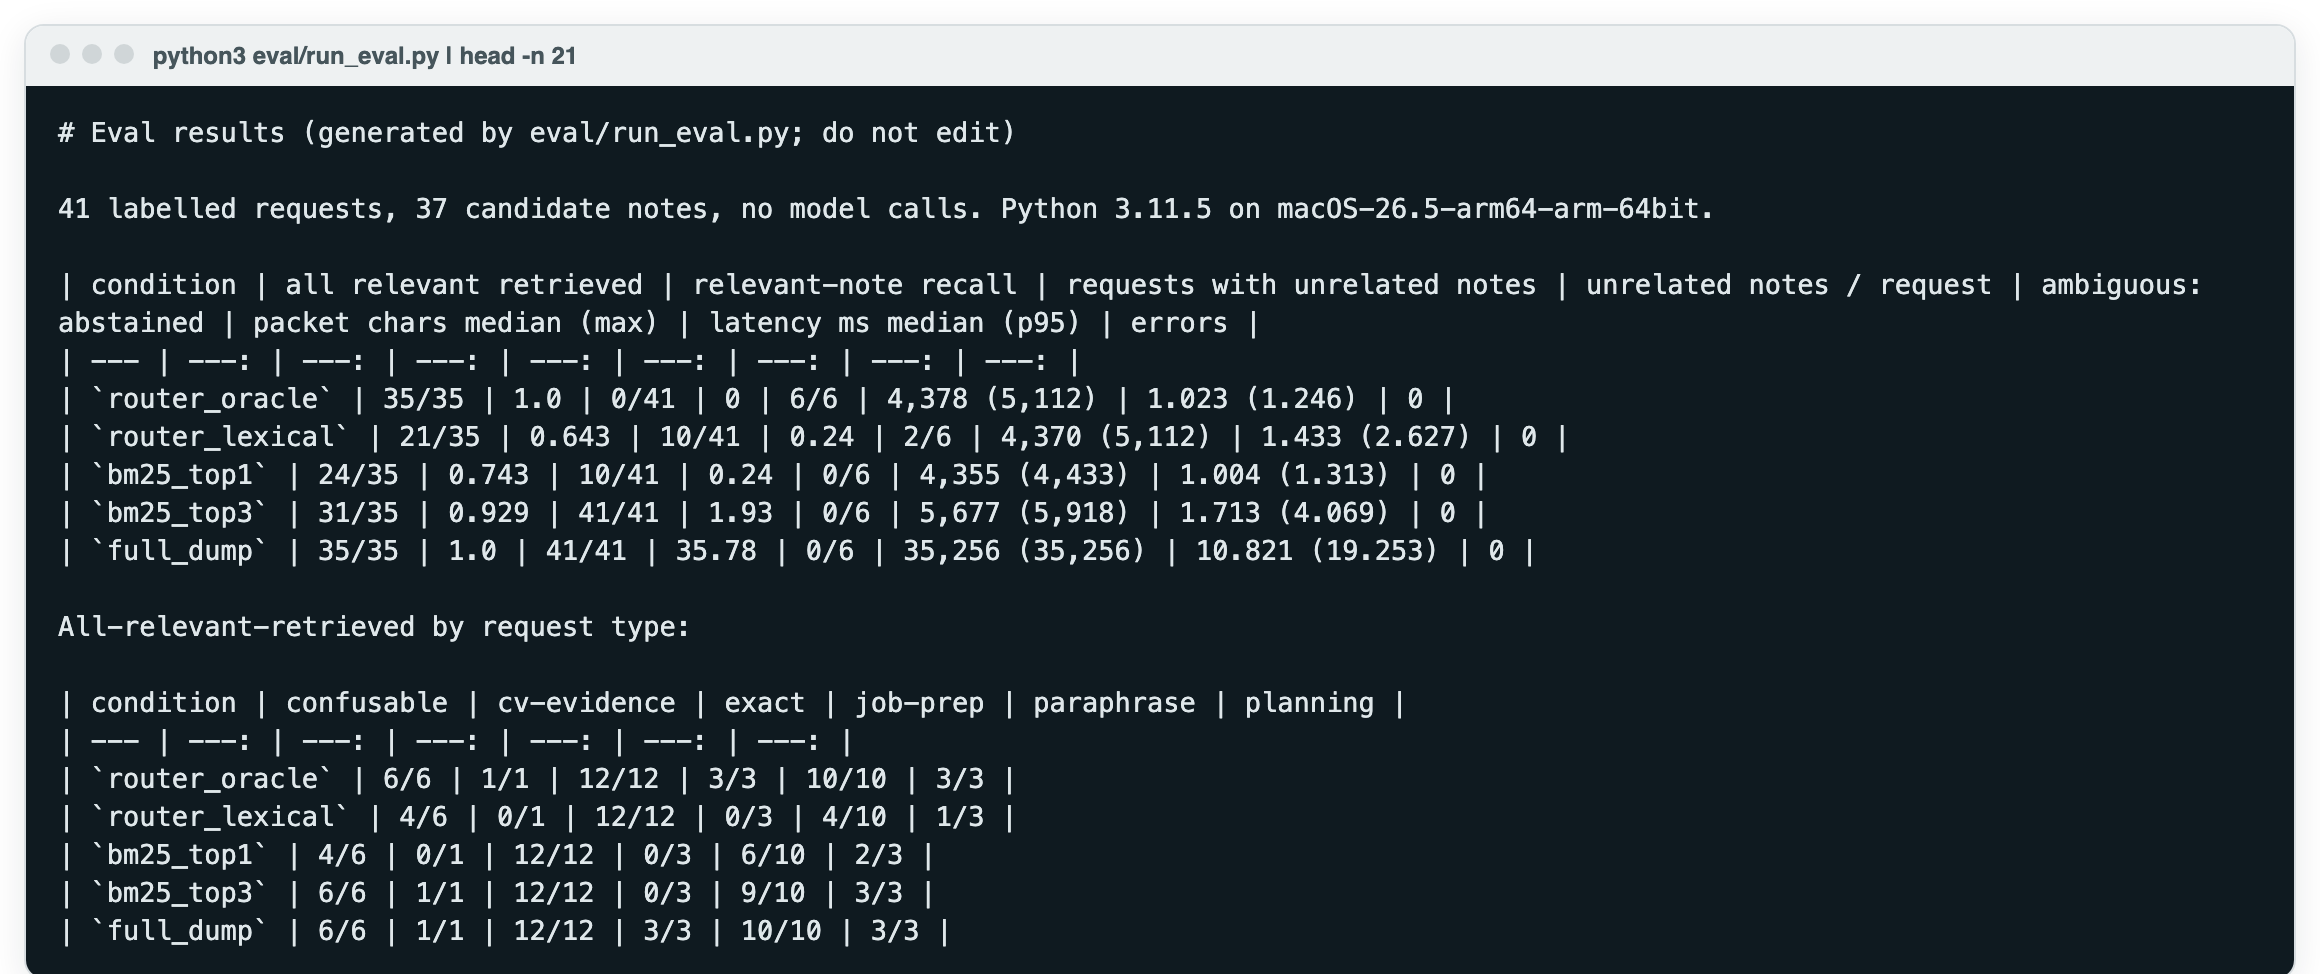
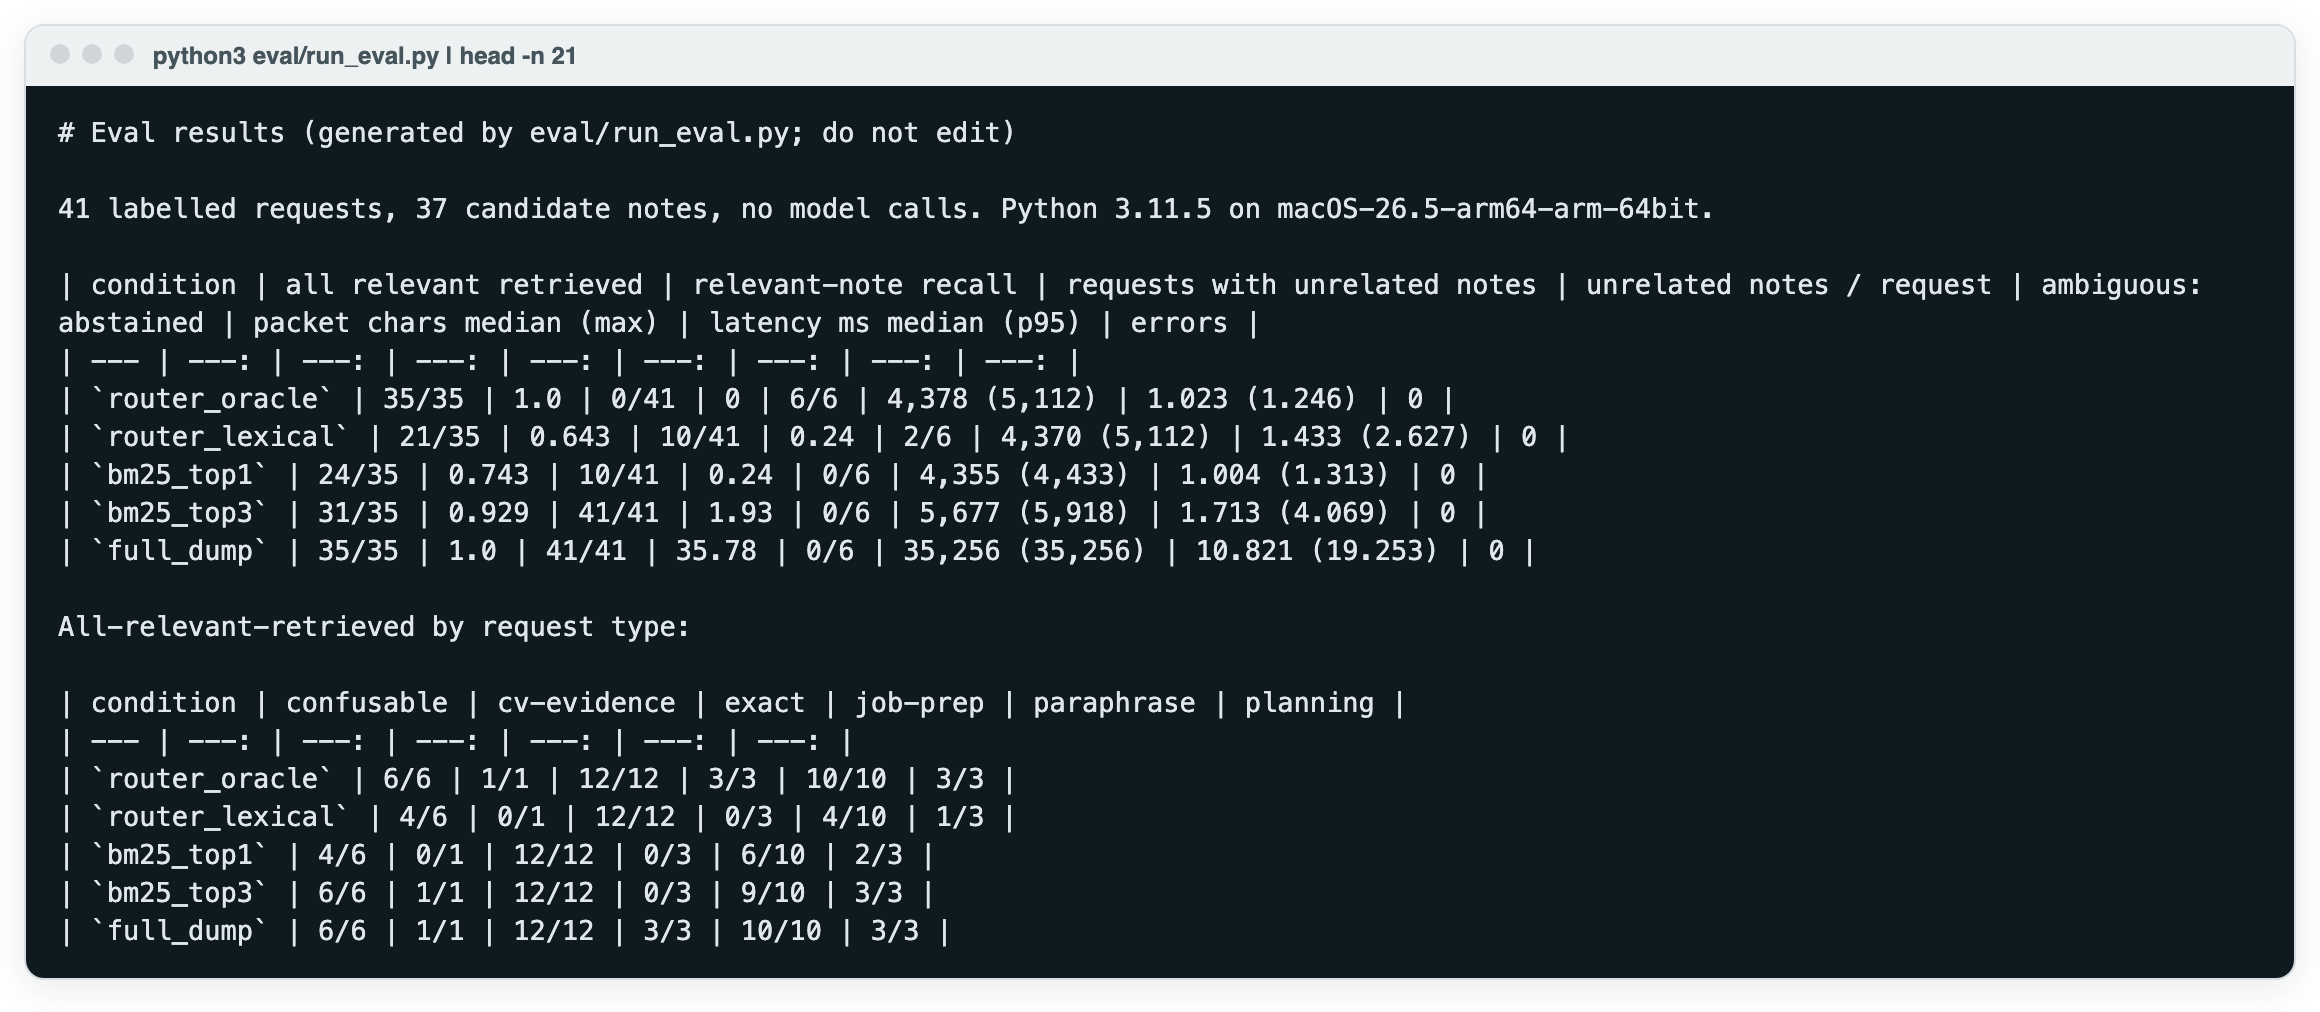
docs: clarify AI-at-runtime answer and re-render eval capture frame

diff --git a/README.md b/README.md
@@ -35,9 +35,9 @@ last read, and `memory.py update` either replaces the note under a file lock or 
 commands, while `eval/run_eval.py` calls the packet code in-process on a synthetic fixture vault.
 
 ## Does it use AI at runtime?
-No: `memory.py`, `bridge.py` and `eval/run_eval.py` are deterministic stdlib Python and call no model; the route and
-slug are chosen by whichever agent calls the CLI (in the eval, a label-free BM25 picker stands in for it). A model appears
-only in the fresh Claude Code sessions recorded in [`evidence/`](evidence/README.md), which used the router as a tool.
+No: `memory.py`, `bridge.py` and `eval/run_eval.py` are deterministic stdlib Python and call no model. The only model
+is the external agent that calls the CLI and chooses the route and slug (Claude Code in the sessions recorded in
+[`evidence/`](evidence/README.md)); in the eval, a label-free BM25 picker stands in for it.
 
 ## Problem
 A fresh agent session doesn't know yesterday's decisions, a project checkpoint or the next action on an
